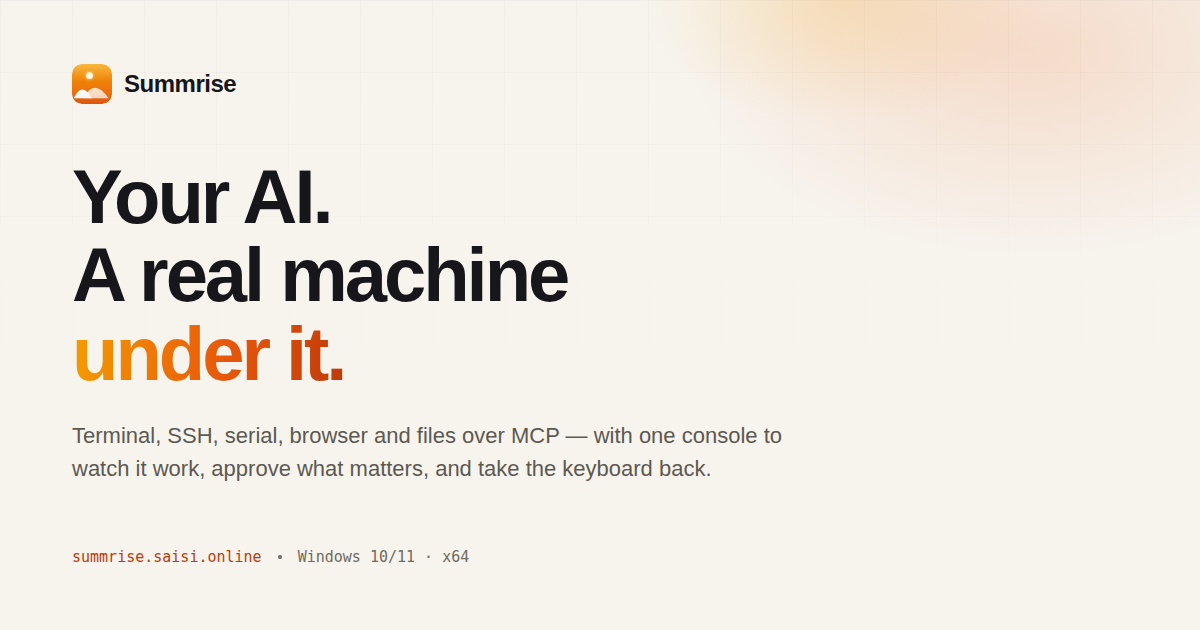
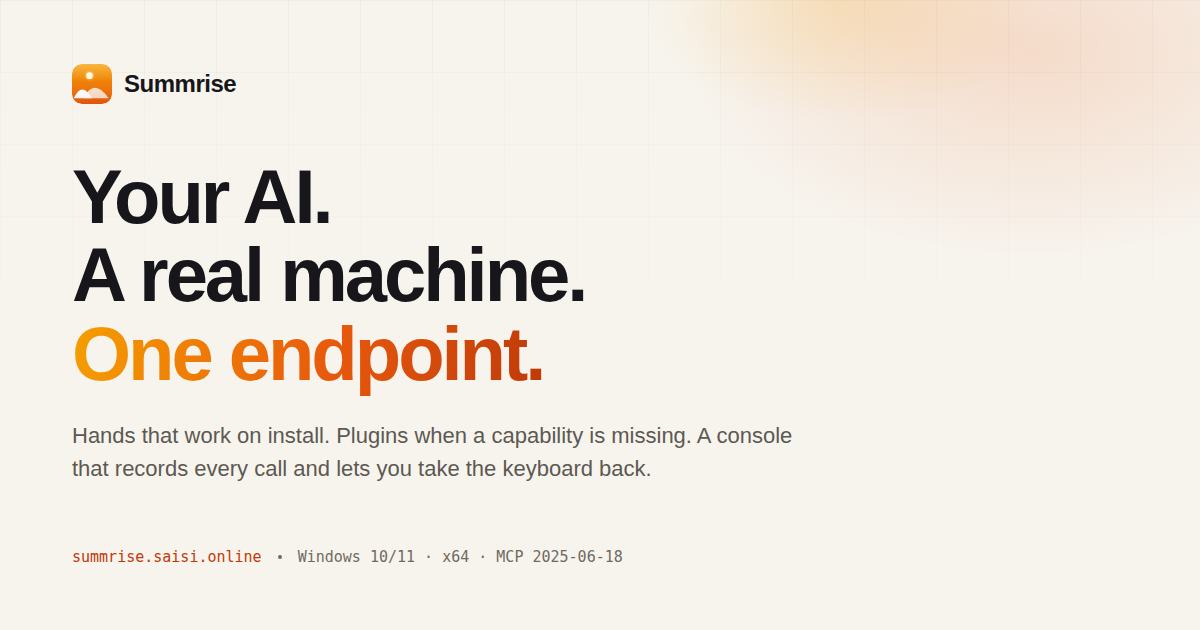
docs: the landing tells the hub's story

diff --git a/landing/public/index.html b/landing/public/index.html
@@ -3,13 +3,13 @@
 <head>
 <meta charset="utf-8">
 <meta name="viewport" content="width=device-width, initial-scale=1">
-<title>Summrise — a real machine under your AI</title>
-<meta name="description" content="Summrise turns a Windows machine into an AI-operable workspace: terminal, SSH, serial, browser and files over MCP — with one console to watch, intervene and take back control from anywhere.">
+<title>Summrise — the capability hub for AI on a real machine</title>
+<meta name="description" content="Summrise is one MCP endpoint for a real Windows machine: terminal, files, browser and runs work on install, plugins add what is missing, and a console records every call and lets you take the keyboard back.">
 <meta name="theme-color" content="#f7f4ee">
 <meta property="og:type" content="website">
 <meta property="og:site_name" content="Summrise">
-<meta property="og:title" content="Summrise — a real machine under your AI">
-<meta property="og:description" content="A Windows box your agent can actually drive — terminal, SSH, serial, browser, files — through one console that keeps the audit, the tokens and the off switch.">
+<meta property="og:title" content="Summrise — the capability hub for AI on a real machine">
+<meta property="og:description" content="One MCP endpoint on a real Windows machine. Hands that work on install, plugins when one is missing, and a console that records every call and lets you take the keyboard back.">
 <meta property="og:url" content="https://summrise.saisi.online/">
 <meta property="og:image" content="https://summrise.saisi.online/assets/og.png">
 <meta property="og:image:width" content="1200">
@@ -19,7 +19,7 @@
 <link rel="icon" href="assets/favicon.svg" type="image/svg+xml">
 <link rel="stylesheet" href="assets/site.css">
 <script type="application/ld+json">
-{"@context":"https://schema.org","@type":"SoftwareApplication","name":"Summrise","operatingSystem":"Windows 10, Windows 11","applicationCategory":"DeveloperApplication","downloadUrl":"https://github.com/SilasVale/summrise/releases","description":"A Windows runtime that makes a real machine an AI-operable workspace over MCP, with a console for watching, intervening and taking back control."}
+{"@context":"https://schema.org","@type":"SoftwareApplication","name":"Summrise","operatingSystem":"Windows 10, Windows 11","applicationCategory":"DeveloperApplication","downloadUrl":"https://github.com/SilasVale/summrise/releases","description":"A capability hub for AI on a real Windows machine: one MCP endpoint, plugins for the capability that is missing, and a console that records every call and lets the operator take the keyboard back."}
 </script>
 </head>
 <body>
@@ -39,7 +39,7 @@
       <a href="#capabilities" data-i18n="nav.product">Product</a>
       <a href="https://github.com/SilasVale/summrise/tree/main/docs" data-i18n="nav.docs">Docs</a>
       <a href="https://console.saisi.online" data-i18n="nav.console">Console</a>
-      <a href="#surfaces" data-i18n="nav.security">Security</a>
+      <a href="#surfaces" data-i18n="nav.security">Trust</a>
     </div>
     <div class="spacer"></div>
     <button class="lang" id="lang-toggle" type="button" aria-pressed="false" aria-label="切换到中文">
@@ -54,17 +54,17 @@
     <div class="grid-lines" aria-hidden="true"></div>
     <div class="hero-grid">
       <div>
-        <div class="eyebrow"><span class="bar"></span> <span data-i18n="hero.eyebrow">The Windows runtime for AI agents</span></div>
-        <h1 data-i18n="hero.title">Your AI.<br>A real machine<br><span class="sun">under it.</span></h1>
-        <p class="sub" data-i18n="hero.sub">A Windows box your agent can actually drive — terminal, SSH, serial, browser, files — reached through one console that keeps the audit, the grants and the off switch.</p>
+        <div class="eyebrow"><span class="bar"></span> <span data-i18n="hero.eyebrow">The capability hub for AI on a real machine</span></div>
+        <h1 data-i18n="hero.title">Your AI.<br>A real machine.<br><span class="sun">One endpoint.</span></h1>
+        <p class="sub" data-i18n="hero.sub">One MCP endpoint with hands that work on install: terminal, SSH, serial, browser and files. A plugin when a capability is missing. And a console that shows every call and lets you take the keyboard back.</p>
         <div class="cta">
           <a class="btn btn-accent" href="#download"><span data-i18n="hero.cta1">Download for Windows</span> <span aria-hidden="true">↓</span></a>
           <a class="btn btn-ghost" href="https://github.com/SilasVale/summrise/tree/main/docs" data-i18n="hero.cta2">Read the docs</a>
         </div>
-        <div class="meta" data-i18n="hero.meta">WINDOWS 10/11 · X64 · MCP-NATIVE · SIGNED UPDATES</div>
+        <div class="meta" data-i18n="hero.meta">WINDOWS 10/11 · X64 · MCP 2025-06-18 · SIGNED UPDATES</div>
       </div>
       <div>
-        <div class="terminal" role="img" aria-label="A terminal on the device enrolling it with the console, then an MCP client listing its tools">
+        <div class="terminal" role="img" aria-label="A terminal enrolling the device with the console, then an MCP client listing the hub's tools">
           <div class="bar"><i></i><i></i><i></i><span class="t">summrise — powershell</span></div>
           <div class="body">
             <div><span class="p">PS&gt;</span> summrise-device.exe --enroll <span class="c">https://console.saisi.online</span> <span class="b">9f2c&hellip;e1</span> --data <span class="c">C:\ProgramData\Summrise</span></div>
@@ -72,18 +72,19 @@
             <div><span class="p">PS&gt;</span> sc stop SummriseLaunch &amp;&amp; sc start SummriseLaunch</div>
             <div class="cmt">  online <span class="badge">online</span></div>
             <div><span class="p">PS&gt;</span> curl -s http://127.0.0.1:18080/api/health</div>
-            <div class="c">  {"status":"ok","version":"0.3.152","sessions":2}</div>
+            <div class="c">  {"status":"ok","version":"&hellip;","sessions":2}</div>
             <div><span class="p">PS&gt;</span> <span class="cmt"># from any MCP client</span></div>
             <div><span class="cmt">POST</span> https://console.saisi.online/mcp/9f3c1a2b4d&hellip;</div>
             <div><span class="cmt">Authorization:</span> Bearer srm_<span class="cmt">&hellip;</span></div>
-            <div class="g">  &rarr; tools: terminal · browser · files · serial · runs</div>
+            <div class="g">  &rarr; tools: terminal · files · browser · runs · plugins</div>
+            <div class="g">  &rarr; plugins: hello · 2 tools</div>
             <div><span class="p">PS&gt;</span> <span class="cursor"></span></div>
           </div>
         </div>
         <div class="float">
-          <div class="fcard"><div class="k" data-i18n="stats.devicesK">Devices</div><div class="v"><span class="dot"></span><span data-i18n="stats.devices">2 online · 1 offline</span></div></div>
-          <div class="fcard"><div class="k" data-i18n="stats.sessionsK">Sessions</div><div class="v" data-i18n="stats.sessions">4 live · 2 idle</div></div>
-          <div class="fcard"><div class="k" data-i18n="stats.auditK">Audit</div><div class="v" data-i18n="stats.audit">1 284 rows today</div></div>
+          <div class="fcard"><div class="k" data-i18n="stats.endpointK">Endpoint</div><div class="v" data-i18n="stats.endpoint">one MCP URL</div></div>
+          <div class="fcard"><div class="k" data-i18n="stats.pluginsK">Plugins</div><div class="v" data-i18n="stats.plugins">install by directory</div></div>
+          <div class="fcard"><div class="k" data-i18n="stats.recordK">Record</div><div class="v" data-i18n="stats.record">every call, one row</div></div>
         </div>
       </div>
     </div>
@@ -92,43 +93,43 @@
   <main id="main">
     <section class="shot" aria-labelledby="shot-caption">
       <div class="shot-frame">
-        <img src="assets/console-fleet.png" width="1280" height="900" loading="lazy"
-             alt="The Summrise console's Devices page: three machines, two online, each with its build and the one way in.">
+        <img src="assets/console-home.png" width="1280" height="900" loading="lazy"
+             alt="The Summrise console's Home for one machine: the status line, the MCP endpoint, the tool and plugin counts, and the last calls.">
       </div>
-      <p class="shot-caption" id="shot-caption" data-i18n="shot.caption">The console at a glance: which machines are online, what each runs, and the one button that puts you on it.</p>
+      <p class="shot-caption" id="shot-caption" data-i18n="shot.caption">The console's Home: one machine's door, what it can do, and what was just called. The five destinations are Home, Capabilities, Plugins, Activity and Device.</p>
     </section>
 
     <section id="capabilities">
-      <div class="kicker" data-i18n="cap.kicker">Capabilities</div>
-      <h2 class="big" data-i18n="cap.title">Everything the machine can do, one authorization check away.</h2>
+      <div class="kicker" data-i18n="cap.kicker">The hub</div>
+      <h2 class="big" data-i18n="cap.title">Hands that work on install. A door that opens wider.</h2>
       <div class="feat">
-        <div class="item"><div class="num" data-i18n="cap.n1">01 / SESSIONS</div><h3 data-i18n="cap.1t">Terminal, SSH, serial</h3><p data-i18n="cap.1b">Real PTYs with attach, resize and scrollback; SSH to the boxes behind it; serial for the hardware that never got a network stack.</p></div>
-        <div class="item"><div class="num" data-i18n="cap.n2">02 / BROWSER</div><h3 data-i18n="cap.2t">Headless by default</h3><p data-i18n="cap.2b">Chrome runs on the device&rsquo;s network and its own sessions. Visible windows only when an operator asks to watch — automation should not flash across someone&rsquo;s desktop.</p></div>
-        <div class="item"><div class="num" data-i18n="cap.n3">03 / CONTROL</div><h3 data-i18n="cap.3t">Consent and audit</h3><p data-i18n="cap.3b">A destructive call without token consent is refused, and the refusal says how to allow it. Every tool call lands in an audit row with who, what, when — and the console can hold the keyboard.</p></div>
-        <div class="item"><div class="num" data-i18n="cap.n4">04 / OPERATIONS</div><h3 data-i18n="cap.4t">Self-supervising</h3><p data-i18n="cap.4b">The launcher owns the app binary, verifies it at boot, repairs it when it is gone, and swaps only on a signed release. Nothing to babysit at 3 a.m.</p></div>
+        <div class="item"><div class="num" data-i18n="cap.n1">01 / HANDS</div><h3 data-i18n="cap.1t">Real hands, on install</h3><p data-i18n="cap.1b">Terminal, SSH and serial sessions; Chrome on the device&rsquo;s own network and profile; files under a declared root. Built in — no plugin, no Node runtime, no cloud VM between the agent and the machine.</p></div>
+        <div class="item"><div class="num" data-i18n="cap.n2">02 / ONE ENDPOINT</div><h3 data-i18n="cap.2t">One door for every client</h3><p data-i18n="cap.2b">One MCP endpoint per machine. Any streamable-HTTP client connects; the built-ins come first, and a plugin&rsquo;s tools appear behind the same door, under the same token, in the same record.</p></div>
+        <div class="item"><div class="num" data-i18n="cap.n3">03 / PLUGINS</div><h3 data-i18n="cap.3t">A plugin is an MCP server</h3><p data-i18n="cap.3b">Install one from a directory you trust. The hub starts it as a child, namespaces its tools, and runs it with this machine&rsquo;s privileges. v1 has no sandbox, signature or marketplace — and says so where you install.</p></div>
+        <div class="item"><div class="num" data-i18n="cap.n4">04 / THE BRAKE</div><h3 data-i18n="cap.4t">Record and brake</h3><p data-i18n="cap.4b">Every call leaves an audit row: what, on which machine, under which token, with what result. Revoke the token, or open the machine&rsquo;s own terminal and take the keyboard back.</p></div>
       </div>
       <div class="strip">
-        <div class="head"><b>Fleet</b><span>console.saisi.online</span><span class="right" data-i18n="fleet.meta">2 online · 1 offline</span></div>
+        <div class="head"><b data-i18n="cat.head">Catalogue</b><span data-i18n="cat.machine">selected machine</span><span class="right" data-i18n="cat.meta">live tools/list</span></div>
         <div class="rows">
-          <div class="row"><div class="name"><span class="dot"></span>STUDIO-PC</div><div class="sub2" data-i18n="fleet.d1s">d1 · Windows 11 · 3 sessions</div><div class="facts2"><span class="pill ok">0.3.152</span><span class="pill" data-i18n="fleet.busy">busy</span></div></div>
-          <div class="row"><div class="name"><span class="dot"></span>LAB-PC</div><div class="sub2" data-i18n="fleet.d14s">d14 · Windows 11 · 1 session</div><div class="facts2"><span class="pill ok">0.3.152</span><span class="pill" data-i18n="fleet.idle">idle</span></div></div>
-          <div class="row"><div class="name"><span class="dot off"></span>EDGE-PC</div><div class="sub2" data-i18n="fleet.lastseen">last seen 6 h ago</div><div class="facts2"><span class="pill warn" data-i18n="fleet.offline">offline</span><span class="pill">0.3.130</span></div></div>
+          <div class="row"><div class="name"><span class="dot"></span>terminal</div><div class="sub2" data-i18n="cat.t1s">built-in · sessions on the real machine</div><div class="facts2"><span class="pill ok" data-i18n="cat.t1a">7 tools</span><span class="pill" data-i18n="cat.t1b">2 can change</span></div></div>
+          <div class="row"><div class="name"><span class="dot"></span>browser</div><div class="sub2" data-i18n="cat.b1s">built-in · Chrome on its own network</div><div class="facts2"><span class="pill ok" data-i18n="cat.b1a">8 tools</span><span class="pill" data-i18n="cat.b1b">3 can change</span></div></div>
+          <div class="row"><div class="name"><span class="dot"></span>hello</div><div class="sub2" data-i18n="cat.p1s">plugin · installed from a directory</div><div class="facts2"><span class="pill ok" data-i18n="cat.p1a">2 tools</span><span class="pill" data-i18n="cat.p1b">read-only</span></div></div>
         </div>
       </div>
     </section>
 
     <section id="surfaces">
-      <div class="kicker" data-i18n="surf.kicker">Two surfaces, one product</div>
-      <h2 class="big" data-i18n="surf.title">The console watches the fleet. The panel knows the machine.</h2>
+      <div class="kicker" data-i18n="surf.kicker">The window and the brake</div>
+      <h2 class="big" data-i18n="surf.title">See every call. Take the keyboard back.</h2>
       <div class="surfaces">
         <div class="surface">
           <div class="tag">console.saisi.online</div>
           <h3 data-i18n="surf.ct">From anywhere</h3>
-          <p data-i18n="surf.cb">Devices dial out over one WebSocket; nothing listens inbound by default, and there is no per-device tunnel. Access in front, operator token behind, fleet and sessions and audit inside.</p>
+          <p data-i18n="surf.cb">Devices dial out over one WebSocket; nothing listens inbound by default, and there is no per-device tunnel. Access in front, the operator token behind, the record and the brake inside.</p>
           <ul>
-            <li><b data-i18n="surf.c1k">Fleet</b><span data-i18n="surf.c1v">who is online, what they run, and why the offline one is offline</span></li>
-            <li><b data-i18n="surf.c2k">Sessions</b><span data-i18n="surf.c2v">terminal, browser, files, runs, audit, tokens</span></li>
-            <li><b data-i18n="surf.c3k">Tokens</b><span data-i18n="surf.c3v">scoped to one device and its tools, expiring if you want, revoked in one click</span></li>
+            <li><b data-i18n="surf.c1k">Record</b><span data-i18n="surf.c1v">every call: what, on which machine, under which token, with what result</span></li>
+            <li><b data-i18n="surf.c2k">Brake</b><span data-i18n="surf.c2v">a token names its tools and whether they can change the machine; revoke it in one action</span></li>
+            <li><b data-i18n="surf.c3k">Hands</b><span data-i18n="surf.c3v">open the same machine&rsquo;s terminal or screen from Device and take over</span></li>
           </ul>
         </div>
         <div class="surface">
@@ -149,7 +150,7 @@
         <div>
           <div class="kicker" data-i18n="dl.kicker">Download</div>
           <h2 data-i18n="dl.title">Run it on the machine you already have.</h2>
-          <p data-i18n="dl.body">Windows 10/11 · x64. The installer puts the service in place; the signed release document means the device can update itself and still prove where the bytes came from.</p>
+          <p data-i18n="dl.body">Windows 10/11 · x64. The installer puts the service in place; the signed release document lets the device update itself and still prove where the bytes came from. The console is the window, and the free path stays free.</p>
           <div class="row2">
             <a class="btn btn-accent" id="dl-installer" href="https://github.com/SilasVale/summrise/releases"><span data-i18n="dl.cta1">Download for Windows</span> <span aria-hidden="true">↓</span></a>
             <a class="btn btn-ghost" id="dl-notes" href="https://github.com/SilasVale/summrise/releases" data-i18n="dl.cta2">Release notes</a>
@@ -160,7 +161,7 @@
           <div class="art"><div><div class="nm">SummriseSetup-&lt;version&gt;.exe</div><div class="sz" data-i18n="dl.a1s">installer · x64 · updates are signed</div></div><a class="get" id="art-installer" href="https://github.com/SilasVale/summrise/releases" data-i18n="dl.get">Download</a></div>
           <div class="art"><div><div class="nm">release-&lt;version&gt;.json</div><div class="sz" data-i18n="dl.a2s">the document the updater verifies</div></div><a class="get" id="art-doc" href="https://github.com/SilasVale/summrise/releases" data-i18n="dl.get2">Download</a></div>
           <div class="art"><div><div class="nm">SHA256SUMS</div><div class="sz" data-i18n="dl.a3s">check the bytes yourself</div></div><a class="get" id="art-sums" href="https://github.com/SilasVale/summrise/releases" data-i18n="dl.get3">Download</a></div>
-          <div class="art"><div><div class="nm" data-i18n="dl.a4n">Quick start</div><div class="sz" data-i18n="dl.a4s">five minutes to a connected client</div></div><a class="get" href="https://github.com/SilasVale/summrise/blob/main/docs/QUICKSTART.md" data-i18n="dl.read">Read</a></div>
+          <div class="art"><div><div class="nm" data-i18n="dl.a4n">Quick start</div><div class="sz" data-i18n="dl.a4s">five minutes to a first call</div></div><a class="get" href="https://github.com/SilasVale/summrise/blob/main/docs/QUICKSTART.md" data-i18n="dl.read">Read</a></div>
         </div>
       </div>
     </section>

diff --git a/landing/public/assets/lang-zh.js b/landing/public/assets/lang-zh.js
@@ -5,58 +5,63 @@ window.SUMMRISE_ZH = {
     "nav.product": "产品",
     "nav.docs": "文档",
     "nav.console": "控制台",
-    "nav.security": "安全",
+    "nav.security": "信任",
     "nav.download": "下载",
 
-    "hero.eyebrow": "面向 AI 智能体的 Windows 运行时",
-    "hero.title": "你的 AI。<br>脚下是一台<br><span class=\"sun\">真正的机器。</span>",
-    "hero.sub": "一台 AI 真的能驱动的 Windows 机器——终端、SSH、串口、浏览器、文件——以及唯一一个控制台：审计、令牌和那道随时能拉下的闸，都在里面。",
+    "hero.eyebrow": "面向真机器的 AI 能力中枢",
+    "hero.title": "你的 AI。<br>一台真机器。<br><span class=\"sun\">一个端点。</span>",
+    "hero.sub": "一个 MCP 端点，装上就能用的双手：终端、SSH、串口、浏览器和文件。缺一项能力，就装一个插件。还有一个控制台，看清每一次调用，也随时能把键盘拿回来。",
     "hero.cta1": "下载 Windows 版",
     "hero.cta2": "阅读文档",
-    "hero.meta": "WINDOWS 10/11 · X64 · 原生 MCP · 签名更新",
+    "hero.meta": "WINDOWS 10/11 · X64 · MCP 2025-06-18 · 签名更新",
 
-    "stats.devicesK": "设备",
-    "stats.devices": "2 台在线 · 1 台离线",
-    "stats.sessionsK": "会话",
-    "stats.sessions": "4 个进行中 · 2 个空闲",
-    "stats.auditK": "审计",
-    "stats.audit": "今日 1 284 条",
+    "stats.endpointK": "端点",
+    "stats.endpoint": "一个 MCP 地址",
+    "stats.pluginsK": "插件",
+    "stats.plugins": "从一个目录安装",
+    "stats.recordK": "记录",
+    "stats.record": "每次调用，一行记录",
 
-    "shot.caption": "一眼看清控制台：哪些机器在线、每台在跑什么，以及那个把你放到机器上的按钮。",
+    "shot.caption": "控制台的主页：一台机器的门、它能做什么，以及刚刚调用了什么。五个目的地是主页、能力、插件、活动与设备。",
 
-    "cap.kicker": "能力",
-    "cap.title": "机器能做的每件事，都隔着一道授权。",
-    "cap.1t": "终端、SSH、串口",
-    "cap.1b": "真正的 PTY：接入、调整大小、回滚；SSH 连到它身后的机器；串口留给那些从来没有过网络栈的硬件。",
-    "cap.2t": "默认无头浏览器",
-    "cap.2b": "Chrome 跑在设备自己的网络和登录态里。只有操作者要求观看时才弹出可见窗口——自动化不该在别人桌面上闪来闪去。",
-    "cap.3t": "许可与审计",
-    "cap.3b": "未获令牌许可的破坏性调用会被直接拒绝，拒绝信息会说明如何放行。每次工具调用都留下谁、做了什么、何时做的审计行——控制台还能按住键盘。",
-    "cap.4t": "自我监督",
-    "cap.n1": "01 / 会话",
-    "cap.n2": "02 / 浏览器",
-    "cap.n3": "03 / 控制",
-    "cap.n4": "04 / 运维",
-    "fleet.d1s": "d1 · Windows 11 · 3 个会话",
-    "fleet.d14s": "d14 · Windows 11 · 1 个会话",
-    "cap.4b": "启动器独占应用二进制：开机校验、缺失修复、只认签名发布才替换。凌晨三点不需要有人守着。",
+    "cap.kicker": "能力中枢",
+    "cap.title": "装上就能用的双手。一扇能开得更大的门。",
+    "cap.n1": "01 / 双手",
+    "cap.1t": "真正的双手，装上就有",
+    "cap.1b": "终端、SSH 和串口会话；跑在设备自己网络与登录态里的 Chrome；限定根目录内的文件。全部内置——不需要插件，不需要 Node 运行时，智能体与机器之间也没有一朵云虚拟机。",
+    "cap.n2": "02 / 一个端点",
+    "cap.2t": "一扇门，所有客户端",
+    "cap.2b": "每台机器一个 MCP 端点。任何 streamable-HTTP 客户端都能接入；内置能力优先，插件的工具出现在同一扇门后，用同一个令牌，进同一条记录。",
+    "cap.n3": "03 / 插件",
+    "cap.3t": "插件就是 MCP 服务器",
+    "cap.3b": "从你信任的目录安装。中枢把它作为子进程启动，给它的工具加上命名空间，并以这台机器的权限运行。v1 没有沙箱、签名或应用市场——安装处会直接说明这一点。",
+    "cap.n4": "04 / 刹车",
+    "cap.4t": "记录与刹车",
+    "cap.4b": "每次调用都留下审计行：做了什么、在哪台机器、用哪个令牌、结果如何。撤销令牌，或者打开这台机器自己的终端，把键盘拿回来。",
 
-    "fleet.meta": "2 台在线 · 1 台离线",
-    "fleet.busy": "忙碌",
-    "fleet.idle": "空闲",
-    "fleet.offline": "离线",
-    "fleet.lastseen": "最后在线：6 小时前",
+    "cat.head": "能力目录",
+    "cat.machine": "当前机器",
+    "cat.meta": "实时 tools/list",
+    "cat.t1s": "内置 · 跑在真机器上的会话",
+    "cat.t1a": "7 个工具",
+    "cat.t1b": "2 个可变更",
+    "cat.b1s": "内置 · 跑在自己网络里的 Chrome",
+    "cat.b1a": "8 个工具",
+    "cat.b1b": "3 个可变更",
+    "cat.p1s": "插件 · 从一个目录安装",
+    "cat.p1a": "2 个工具",
+    "cat.p1b": "只读",
 
-    "surf.kicker": "两个界面，一个产品",
-    "surf.title": "控制台看机队。面板懂这台机器。",
+    "surf.kicker": "窗口与刹车",
+    "surf.title": "看清每一次调用。把键盘拿回来。",
     "surf.ct": "从任何地方",
-    "surf.cb": "设备通过一条 WebSocket 向外拨号：默认不监听任何入站端口，也没有每设备一条隧道。前面是 Access，后面是操作者令牌，里面是机队、会话和审计。",
-    "surf.c1k": "机队",
-    "surf.c1v": "谁在线、跑的什么版本、离线的那台为什么离线",
-    "surf.c2k": "会话",
-    "surf.c2v": "终端、浏览器、文件、运行、审计、令牌",
-    "surf.c3k": "令牌",
-    "surf.c3v": "限定到一台设备和它的工具，可选到期，一键撤销",
+    "surf.cb": "设备主动向外拨号：默认不监听任何入站端口，也没有每设备一条隧道。前面是 Access，后面是操作者令牌，里面是记录和刹车。",
+    "surf.c1k": "记录",
+    "surf.c1v": "每次调用：做了什么、在哪台机器、用哪个令牌、结果如何",
+    "surf.c2k": "刹车",
+    "surf.c2v": "令牌写明它能调用哪些工具、能否改变机器；撤销只需一个动作",
+    "surf.c3k": "双手",
+    "surf.c3v": "从设备页打开同一台机器的终端或屏幕，直接接管",
     "surf.pt": "在这台机器上",
     "surf.pb": "只监听回环，没有登录。控制台不可用时它依然工作——也只有它能说清通道为什么断了。",
     "surf.p1k": "状态",
@@ -68,7 +73,7 @@ window.SUMMRISE_ZH = {
 
     "dl.kicker": "下载",
     "dl.title": "装到你愿意交给 AI 的那台机器。",
-    "dl.body": "Windows 10/11 · x64。安装器把服务装好；签名的发布文档让设备可以自己更新，并且随时能证明这些字节来自哪里。",
+    "dl.body": "Windows 10/11 · x64。安装器把服务装好；签名的发布文档让设备可以自己更新，并且随时能证明这些字节来自哪里。控制台是它的窗口，免费路径保持免费。",
     "dl.cta1": "下载 Windows 版",
     "dl.cta2": "发行说明",
     "dl.noteLabel": "最新已发布版本",
@@ -77,7 +82,7 @@ window.SUMMRISE_ZH = {
     "dl.a2s": "更新器校验的那份文档",
     "dl.a3s": "自己核对字节",
     "dl.a4n": "快速开始",
-    "dl.a4s": "五分钟连上 AI 客户端",
+    "dl.a4s": "五分钟做出第一次调用",
     "dl.get": "下载",
     "dl.get2": "下载",
     "dl.get3": "下载",

diff --git a/landing/og.html b/landing/og.html
@@ -1,5 +1,5 @@
 <!doctype html>
-<!-- The social card's source. Rendered by `scripts/render-og.sh` into
+<!-- The social card's source. Rendered by `render-og.sh` into
      `public/assets/og.png` at exactly 1200x630, which is the size the platforms crop to.
      Kept as HTML so the card can be changed without an image editor, and checked by
      `check.mjs` (the file must exist and be a PNG). -->
@@ -47,9 +47,9 @@
     </defs><rect width="48" height="48" rx="11" fill="url(#sky)"/><circle cx="21" cy="14" r="7.5" fill="url(#glowg)"/><circle cx="21" cy="14" r="4" fill="#fff8e1"/><path fill="#fff" opacity=".78" d="M14 41Q26 16 44 41Z"/><path fill="#fff" d="M2 41Q12 20 24 41Z"/><rect width="48" height="48" rx="11" fill="url(#sheen)"/></svg>
     Summrise
   </div>
-  <h1>Your AI.<br>A real machine<br><span class="sun">under it.</span></h1>
-  <p class="sub">Terminal, SSH, serial, browser and files over MCP — with one console to watch it work, approve what matters, and take the keyboard back.</p>
-  <div class="foot"><span class="url">summrise.saisi.online</span><span class="sep"></span><span>Windows 10/11 · x64</span></div>
+  <h1>Your AI.<br>A real machine.<br><span class="sun">One endpoint.</span></h1>
+  <p class="sub">Hands that work on install. Plugins when a capability is missing. A console that records every call and lets you take the keyboard back.</p>
+  <div class="foot"><span class="url">summrise.saisi.online</span><span class="sep"></span><span>Windows 10/11 · x64 · MCP 2025-06-18</span></div>
 </div>
 </body>
 </html>

diff --git a/landing/public/assets/site.js b/landing/public/assets/site.js
@@ -34,13 +34,13 @@
     var zh = lang === "zh";
 
     document.documentElement.lang = zh ? "zh-CN" : "en";
-    document.title = zh ? "Summrise — 让你的 AI 脚踩真机器" : "Summrise — a real machine under your AI";
+    document.title = zh ? "Summrise — AI 在真机器上的能力中枢" : "Summrise — the capability hub for AI on a real machine";
 
     var desc = document.querySelector('meta[name="description"]');
     if (desc) {
       desc.setAttribute("content", zh
-        ? "Summrise 把一台 Windows 机器变成 AI 可操作的工位：终端、SSH、串口、浏览器、文件，全部通过 MCP；一个控制台负责观看、批准和随时收回控制权。"
-        : "Summrise turns a Windows machine into an AI-operable workspace: terminal, SSH, serial, browser and files over MCP — with one console to watch, approve and take back control from anywhere.");
+        ? "Summrise 是为真机器上的 AI 准备的能力中枢：一个 MCP 端点，装上就能用的终端、文件、浏览器与运行能力；缺一项能力就装一个插件；一个控制台记录每次调用，也随时能把键盘拿回来。"
+        : "Summrise is one MCP endpoint for a real Windows machine: terminal, files, browser and runs work on install, plugins add what is missing, and a console records every call and lets you take the keyboard back.");
     }
 
     for (var j = 0; j < nodes.length; j++) {

diff --git a/landing/README.md b/landing/README.md
@@ -19,6 +19,7 @@ public/
   assets/site.css    the stylesheet; tokens match device/ui so the two cannot drift apart
   assets/site.js     the language switch, the newest-release lookup, the sticky-nav hairline
   assets/lang-zh.js  the Chinese strings, one dictionary
+  assets/console-home.png  the console's Home, captured from the screenshot harness
   assets/og.png      1200x630 social card, rendered from og.html
   _headers           cache policy: the page revalidates, the assets may sit for an hour
 check.mjs            the gate: translations, anchors, assets, contrast, social card
